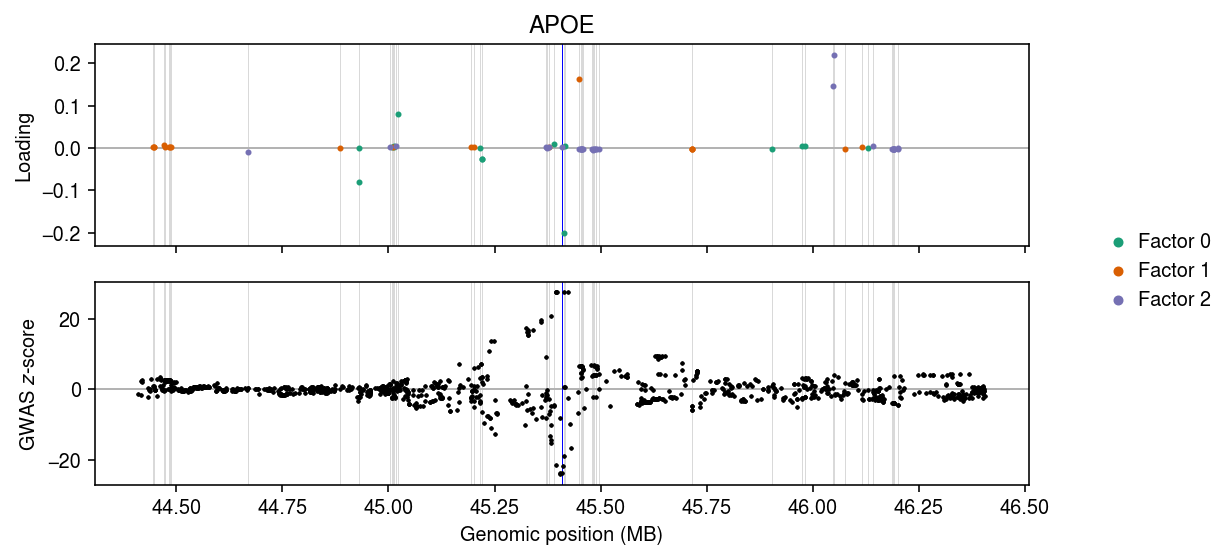
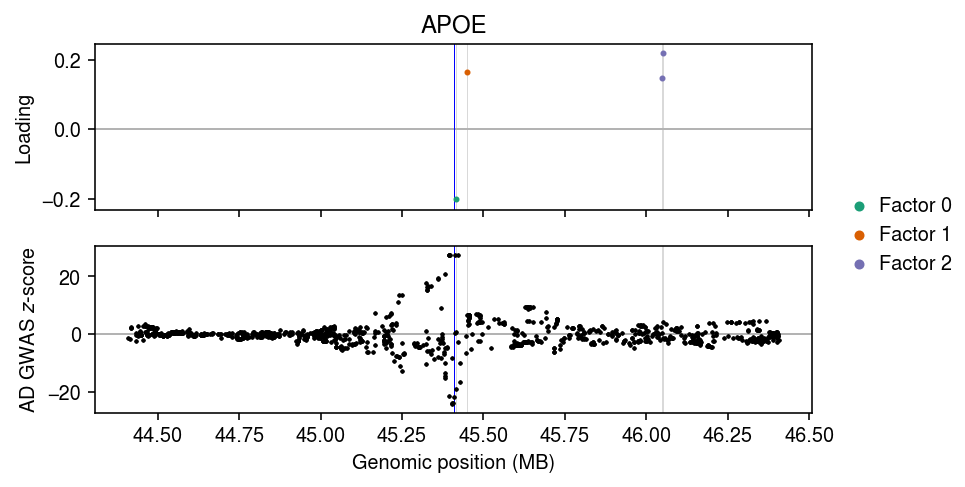
Fix permutation code

diff --git a/docs/twas.html b/docs/twas.html
@@ -1,7 +1,7 @@
 <!DOCTYPE html>
 <html lang="en">
 <head>
-<!-- 2020-04-04 Sat 21:48 -->
+<!-- 2020-04-05 Sun 16:03 -->
 <meta charset="utf-8">
 <meta name="viewport" content="width=device-width, initial-scale=1">
 <title>TWAS pipeline</title>
@@ -281,7 +281,18 @@ for the JavaScript code in this tag.
 <div class="outline-text-2" id="text-orged0fb56">
 <p>
 Here, we use the fitted <code>fqtl</code> models to perform TWAS of 114 traits
-(<a href="https://doi.org/10.1038/s41467-018-03621-1">Barbeira et al 2018</a>).
+(<a href="https://doi.org/10.1038/s41467-018-03621-1">Barbeira et al 2018</a>).\(
+  \DeclareMathOperator\N{N}
+  \newcommand\mU{\mathbf{U}}
+  \newcommand\mc{\mathbf{V}}
+  \newcommand\md{\mathbf{D}}
+  \newcommand\mi{\mathbf{I}}
+  \newcommand\mx{\mathbf{X}}
+  \newcommand\vb{\mathbf{b}_t}
+  \newcommand\veta{\boldsymbol{\eta}_t}
+  \newcommand\vy{\mathbf{y}}
+  \newcommand\vz{\mathbf{z}}
+  \)
 </p>
 </div>
 </div>
@@ -296,6 +307,7 @@ Here, we use the fitted <code>fqtl</code> models to perform TWAS of 114 traits
 <span class="org-keyword">import</span> numpy <span class="org-keyword">as</span> np
 <span class="org-keyword">import</span> pandas <span class="org-keyword">as</span> pd
 <span class="org-keyword">import</span> scipy.linalg <span class="org-keyword">as</span> sl
+<span class="org-keyword">import</span> scipy.sparse <span class="org-keyword">as</span> ss
 <span class="org-keyword">import</span> scipy.special <span class="org-keyword">as</span> sp
 <span class="org-keyword">import</span> scipy.stats <span class="org-keyword">as</span> st
 </pre>
@@ -461,8 +473,10 @@ Extract the <code>fqtl</code> model for <i>APOE</i>.
 <span class="org-variable-name">prefix</span> = f<span class="org-string">'/broad/compbio/ypp/gtex/analysis/fqtl-gtex/result/fqtl-std/{gene_id}/50'</span>
 <span class="org-variable-name">snp_annot</span> = pd.read_csv(f<span class="org-string">'{prefix}/fqtl.snp.info.gz'</span>, sep=<span class="org-string">'\t'</span>, header=<span class="org-constant">None</span>)
 <span class="org-variable-name">snp_lodds</span> = pd.read_csv(f<span class="org-string">'{prefix}/fqtl.snp.lodds.txt.gz'</span>, sep=<span class="org-string">'\t'</span>, header=<span class="org-constant">None</span>)
+<span class="org-variable-name">snp_lodds.index</span> = snp_annot[3]
 <span class="org-variable-name">tis_annot</span> = pd.read_csv(f<span class="org-string">'{prefix}/fqtl.tis.info.gz'</span>, sep=<span class="org-string">'\t'</span>, header=<span class="org-constant">None</span>, index_col=0)
 <span class="org-variable-name">tis_lodds</span> = pd.read_csv(f<span class="org-string">'{prefix}/fqtl.tis.lodds.txt.gz'</span>, sep=<span class="org-string">'\t'</span>, header=<span class="org-constant">None</span>)
+<span class="org-variable-name">tis_lodds.index</span> = tis_annot[1].<span class="org-builtin">apply</span>(<span class="org-keyword">lambda</span> x: x.rsplit(<span class="org-string">'_'</span>, maxsplit=1)[0])
 <span class="org-variable-name">keep</span> = (sp.expit(snp_lodds) &gt; .95).<span class="org-builtin">any</span>(axis=0)
 <span class="org-variable-name">L</span> = pd.read_csv(f<span class="org-string">'{prefix}/fqtl.snp.theta.txt.gz'</span>, sep=<span class="org-string">'\t'</span>, header=<span class="org-constant">None</span>)
 <span class="org-variable-name">L.index</span> = snp_annot[3]
@@ -574,12 +588,13 @@ Plot the TWAS loadings and the GWAS \(z\)-scores.
 <pre class="src src-ipython"><span class="org-variable-name">cm</span> = plt.get_cmap(<span class="org-string">'Dark2'</span>)
 plt.clf()
 <span class="org-variable-name">fig</span>, <span class="org-variable-name">ax</span> = plt.subplots(2, 1, sharex=<span class="org-constant">True</span>)
-fig.set_size_inches(7.5, 4)
+fig.set_size_inches(6, 3.5)
 
 <span class="org-variable-name">query</span> = L.loc[:,keep].align(twas_data, axis=0, join=<span class="org-string">'inner'</span>)[0]
+<span class="org-variable-name">query_lodds</span> = snp_lodds.loc[:,keep].align(twas_data, axis=0, join=<span class="org-string">'inner'</span>)[0]
 <span class="org-variable-name">pos</span> = query.index / 1e6
 <span class="org-keyword">for</span> i, k <span class="org-keyword">in</span> <span class="org-builtin">enumerate</span>(query):
-  <span class="org-variable-name">keep_snps</span> = <span class="org-builtin">abs</span>(query[k]) &gt; 1e-3
+  <span class="org-variable-name">keep_snps</span> = query_lodds[k] &gt; sp.logit(.95)
   ax[0].scatter(pos[keep_snps], query[k][keep_snps], s=4, color=cm(i), label=f<span class="org-string">'Factor {i}'</span>, zorder=3)
   ax[1].scatter(pos, twas_data[<span class="org-string">'5_x'</span>], s=1, color=<span class="org-string">'k'</span>, zorder=3, label=<span class="org-constant">None</span>)
   <span class="org-keyword">for</span> a <span class="org-keyword">in</span> ax:
@@ -589,10 +604,10 @@ fig.set_size_inches(7.5, 4)
   a.axhline(y=0, lw=1, color=<span class="org-string">'0.7'</span>)
   a.axvline(gene_info.loc[gene_id,3] / 1e6, c=<span class="org-string">'b'</span>, lw=0.5)
 ax[0].set_ylabel(<span class="org-string">'Loading'</span>)
-ax[1].set_ylabel(<span class="org-string">'GWAS $z$-score'</span>)
+ax[1].set_ylabel(<span class="org-string">'AD GWAS $z$-score'</span>)
 ax[1].set_xlabel(<span class="org-string">'Genomic position (MB)'</span>)
 ax[0].set_title(<span class="org-string">'APOE'</span>)
-fig.legend(frameon=<span class="org-constant">False</span>, markerscale=2, handletextpad=0, loc=<span class="org-string">'center left'</span>, bbox_to_anchor=(1, .5))
+fig.legend(frameon=<span class="org-constant">False</span>, markerscale=2, handletextpad=0, loc=<span class="org-string">'center left'</span>, bbox_to_anchor=(.95, .5))
 fig.tight_layout()
 </pre>
 </div>
@@ -604,12 +619,13 @@ fig.tight_layout()
 </div>
 
 <p>
-Estimate the TWAS \(z\)-score.
+Align the <code>fqtl</code> model and the GWAS summary statistics.
 </p>
 
 <div class="org-src-container">
-<pre class="src src-ipython"><span class="org-variable-name">Bs</span> = B.loc[twas_data[<span class="org-string">'3_y'</span>]]
-<span class="org-variable-name">Bs</span> = Bs.loc[~Bs.index.duplicated(keep=<span class="org-string">'first'</span>)]
+<pre class="src src-ipython"><span class="org-variable-name">B</span> = B.loc[twas_data[<span class="org-string">'3_y'</span>]]
+<span class="org-variable-name">B</span> = B.loc[~B.index.duplicated(keep=<span class="org-string">'first'</span>)]
+<span class="org-variable-name">snp_lodds</span> = snp_lodds.align(B, axis=0, join=<span class="org-string">'inner'</span>)[0]
 <span class="org-variable-name">z</span> = twas_data[<span class="org-string">'5_x'</span>]
 <span class="org-variable-name">z</span> = z.loc[~z.index.duplicated(keep=<span class="org-string">'first'</span>)]
 <span class="org-variable-name">X</span> = x.loc[:,twas_data[<span class="org-string">'3_y'</span>]]
@@ -621,25 +637,52 @@ Estimate the TWAS \(z\)-score.
 </div>
 
 <p>
-Compare the permutation null distribution of the TWAS statistic to the
-theoretical null.
+Compute the PIP for the tissue-specific effects.
 </p>
+
+<p>
+\[ \Pr(b_{jt} \neq 0 \mid \cdot) = \sum_k \Pr(l_{jk} \neq 0 \mid \cdot) \Pr(f_{tk} \neq 0 \mid \cdot) \]
+</p>
+
+<div class="org-src-container">
+<pre class="src src-ipython"><span class="org-variable-name">pip</span> = sp.expit(snp_lodds.loc[:,keep]) @ sp.expit(tis_lodds.loc[:,keep]).T
+</pre>
+</div>
+
+<p>
+Plot the permutation null distribution of the TWAS statistic.
+</p>
+
+\begin{align*}
+  \vy &\sim \N(\veta a, \sigma^2 \mi), \qquad \veta = \mx\vb\\
+  \hat{a} &= (\veta' \veta)^{-1} \veta' \vy\\
+  &= (\vb' \mx' \mx \vb)^{-1} \vb' \mx' \vy, \qquad \mx = \mU\md\mv', \mU'\mU = \mi, \mv'\mv = \mi\\
+  &= (\vb' \mv' \md^2 \mv \vb)^{-1} \vb' \vz
+\end{align*}
 
 <div class="org-src-container">
 <pre class="src src-ipython">np.random.seed(1)
 <span class="org-variable-name">n_perm</span> = 100000
-<span class="org-variable-name">stat</span> = z @ Bs
-<span class="org-variable-name">B</span> = []
-<span class="org-variable-name">z_copy</span> = z.values.copy()
-<span class="org-keyword">for</span> i <span class="org-keyword">in</span> <span class="org-builtin">range</span>(n_perm):
-  np.random.shuffle(z_copy)
-  B.append(z_copy @ Bs)
-<span class="org-variable-name">B</span> = np.array(B).squeeze()
-</pre>
-</div>
-
-<div class="org-src-container">
-<pre class="src src-ipython"><span class="org-variable-name">perm_logp</span> = -np.log10((np.square(stat.values).reshape(1, -1) &lt; np.square(B)).mean(axis=0))
+<span class="org-variable-name">pip_thresh</span> = 0.5
+<span class="org-comment-delimiter"># </span><span class="org-comment">Hard threshold posterior mean B</span>
+<span class="org-variable-name">B_thresh</span> = np.where(pip &gt; pip_thresh, B, 0)
+<span class="org-variable-name">stat</span> = pd.Series(z @ B_thresh / (X.shape[0] * np.diag(B_thresh.T @ R @ B_thresh) + 1e-8), index=pip.columns)
+<span class="org-variable-name">perm_stat</span> = []
+<span class="org-comment-delimiter"># </span><span class="org-comment">Permute b_t by selecting new indices</span>
+<span class="org-variable-name">n_qtls</span> = (pip &gt; pip_thresh).<span class="org-builtin">sum</span>(axis=0)
+<span class="org-keyword">for</span> t <span class="org-keyword">in</span> B:
+  <span class="org-keyword">if</span> n_qtls[t] == 0:
+    perm_stat.append(np.repeat(0, n_perm))
+    <span class="org-keyword">continue</span>
+  <span class="org-variable-name">data</span> = np.repeat(B[t][pip[t] &gt; pip_thresh], n_perm)
+  <span class="org-variable-name">row</span> = np.random.choice(B.shape[0], replace=<span class="org-constant">True</span>, size=(n_qtls[t], n_perm)).ravel()
+  <span class="org-variable-name">col</span> = np.repeat(np.arange(n_perm), n_qtls[t])
+  <span class="org-variable-name">bt</span> = ss.coo_matrix((data, (row, col)), shape=(B.shape[0], n_perm)).tocsr()
+  <span class="org-variable-name">num</span> = (z.values.reshape(1, -1) @ bt)
+  <span class="org-variable-name">den</span> = X.shape[0] * (R.values @ bt.power(2)).<span class="org-builtin">sum</span>(axis=0, keepdims=<span class="org-constant">True</span>)
+  perm_stat.append(num / den)
+<span class="org-variable-name">perm_stat</span> = np.vstack(perm_stat)
+<span class="org-variable-name">perm_logp</span> = -np.log10((np.square(stat.values).reshape(-1, 1) &lt;= np.square(perm_stat)).mean(axis=1) + 1e-8)
 </pre>
 </div>
 
@@ -650,11 +693,10 @@ plt.clf()
 <span class="org-variable-name">fig</span>, <span class="org-variable-name">ax</span> = plt.subplots(1, 4)
 fig.set_size_inches(8, 2.25)
 
-<span class="org-keyword">for</span> a, b, s_, v_, t <span class="org-keyword">in</span> <span class="org-builtin">zip</span>(ax, B[:,idx], stat.loc[idx], v[idx], stat.index[idx]):
-  a.hist(b, bins=10, density=<span class="org-constant">True</span>, color=<span class="org-string">'0.7'</span>)
-  a.axvline(s_, lw=1, c=<span class="org-string">'r'</span>)
+<span class="org-keyword">for</span> a, s, p, t <span class="org-keyword">in</span> <span class="org-builtin">zip</span>(ax, stat.loc[idx], perm_stat[idx].T, stat.index[idx]):
+  a.hist(p, density=<span class="org-constant">True</span>, color=<span class="org-string">'0.7'</span>)
+  a.axvline(s, lw=1, c=<span class="org-string">'r'</span>)
   a.set_title(<span class="org-string">' '</span>.join(t.split(<span class="org-string">'_'</span>)[:2]))
-  a.set_xlim(-6, 6)
   a.set_xlabel(<span class="org-string">'TWAS statistic'</span>)
 ax[0].set_ylabel(<span class="org-string">'Density'</span>)
 fig.tight_layout()
@@ -748,7 +790,7 @@ Run the entire pipeline.
 </div>
 <div id="postamble" class="status">
 <p class="author">Author: Abhishek Sarkar</p>
-<p class="date">Created: 2020-04-04 Sat 21:48</p>
+<p class="date">Created: 2020-04-05 Sun 16:03</p>
 <p class="validation"><a href="http://validator.w3.org/check?uri=referer">Validate</a></p>
 </div>
 </body>

diff --git a/docs/brain.html b/docs/brain.html
@@ -1,7 +1,7 @@
 <!DOCTYPE html>
 <html lang="en">
 <head>
-<!-- 2020-04-04 Sat 21:48 -->
+<!-- 2020-04-05 Sun 16:03 -->
 <meta charset="utf-8">
 <meta name="viewport" content="width=device-width, initial-scale=1">
 <title>AD brain-specific TWAS analysis</title>
@@ -376,7 +376,7 @@ In each brain tissue, find the significant gene-level associations in IGAP (FDR 
 </div>
 <div id="postamble" class="status">
 <p class="author">Author: Abhishek Sarkar</p>
-<p class="date">Created: 2020-04-04 Sat 21:48</p>
+<p class="date">Created: 2020-04-05 Sun 16:03</p>
 <p class="validation"><a href="http://validator.w3.org/check?uri=referer">Validate</a></p>
 </div>
 </body>

diff --git a/docs/twas-analysis.html b/docs/twas-analysis.html
@@ -1,7 +1,7 @@
 <!DOCTYPE html>
 <html lang="en">
 <head>
-<!-- 2020-04-04 Sat 21:48 -->
+<!-- 2020-04-05 Sun 16:03 -->
 <meta charset="utf-8">
 <meta name="viewport" content="width=device-width, initial-scale=1">
 <title>Tissue-specific TWAS analysis</title>
@@ -943,7 +943,7 @@ pd.concat({i: pd.Series(Z.columns[m1.labels_ == i]) <span class="org-keyword">fo
 </div>
 <div id="postamble" class="status">
 <p class="author">Author: Abhishek Sarkar</p>
-<p class="date">Created: 2020-04-04 Sat 21:48</p>
+<p class="date">Created: 2020-04-05 Sun 16:03</p>
 <p class="validation"><a href="http://validator.w3.org/check?uri=referer">Validate</a></p>
 </div>
 </body>

diff --git a/docs/index.html b/docs/index.html
@@ -1,7 +1,7 @@
 <!DOCTYPE html>
 <html lang="en">
 <head>
-<!-- 2020-04-04 Sat 21:48 -->
+<!-- 2020-04-05 Sun 16:03 -->
 <meta charset="utf-8">
 <meta name="viewport" content="width=device-width, initial-scale=1">
 <title>Factored QTL analysis</title>
@@ -256,7 +256,7 @@ Technical details:
 </div>
 <div id="postamble" class="status">
 <p class="author">Author: Abhishek Sarkar</p>
-<p class="date">Created: 2020-04-04 Sat 21:48</p>
+<p class="date">Created: 2020-04-05 Sun 16:03</p>
 <p class="validation"><a href="http://validator.w3.org/check?uri=referer">Validate</a></p>
 </div>
 </body>

diff --git a/docs/models.html b/docs/models.html
@@ -1,7 +1,7 @@
 <!DOCTYPE html>
 <html lang="en">
 <head>
-<!-- 2020-04-04 Sat 21:48 -->
+<!-- 2020-04-05 Sun 16:03 -->
 <meta charset="utf-8">
 <meta name="viewport" content="width=device-width, initial-scale=1">
 <title>fQTL models</title>
@@ -511,7 +511,7 @@ applying fQTL to GTEx v8.
 </div>
 <div id="postamble" class="status">
 <p class="author">Author: Abhishek Sarkar</p>
-<p class="date">Created: 2020-04-04 Sat 21:48</p>
+<p class="date">Created: 2020-04-05 Sun 16:03</p>
 <p class="validation"><a href="http://validator.w3.org/check?uri=referer">Validate</a></p>
 </div>
 </body>

diff --git a/docs/dense.html b/docs/dense.html
@@ -1,7 +1,7 @@
 <!DOCTYPE html>
 <html lang="en">
 <head>
-<!-- 2020-04-04 Sat 21:48 -->
+<!-- 2020-04-05 Sun 16:03 -->
 <meta charset="utf-8">
 <meta name="viewport" content="width=device-width, initial-scale=1">
 <title>Dense factors</title>
@@ -471,7 +471,7 @@ dev.off()
 </div>
 <div id="postamble" class="status">
 <p class="author">Author: Abhishek Sarkar</p>
-<p class="date">Created: 2020-04-04 Sat 21:48</p>
+<p class="date">Created: 2020-04-05 Sun 16:03</p>
 <p class="validation"><a href="http://validator.w3.org/check?uri=referer">Validate</a></p>
 </div>
 </body>
